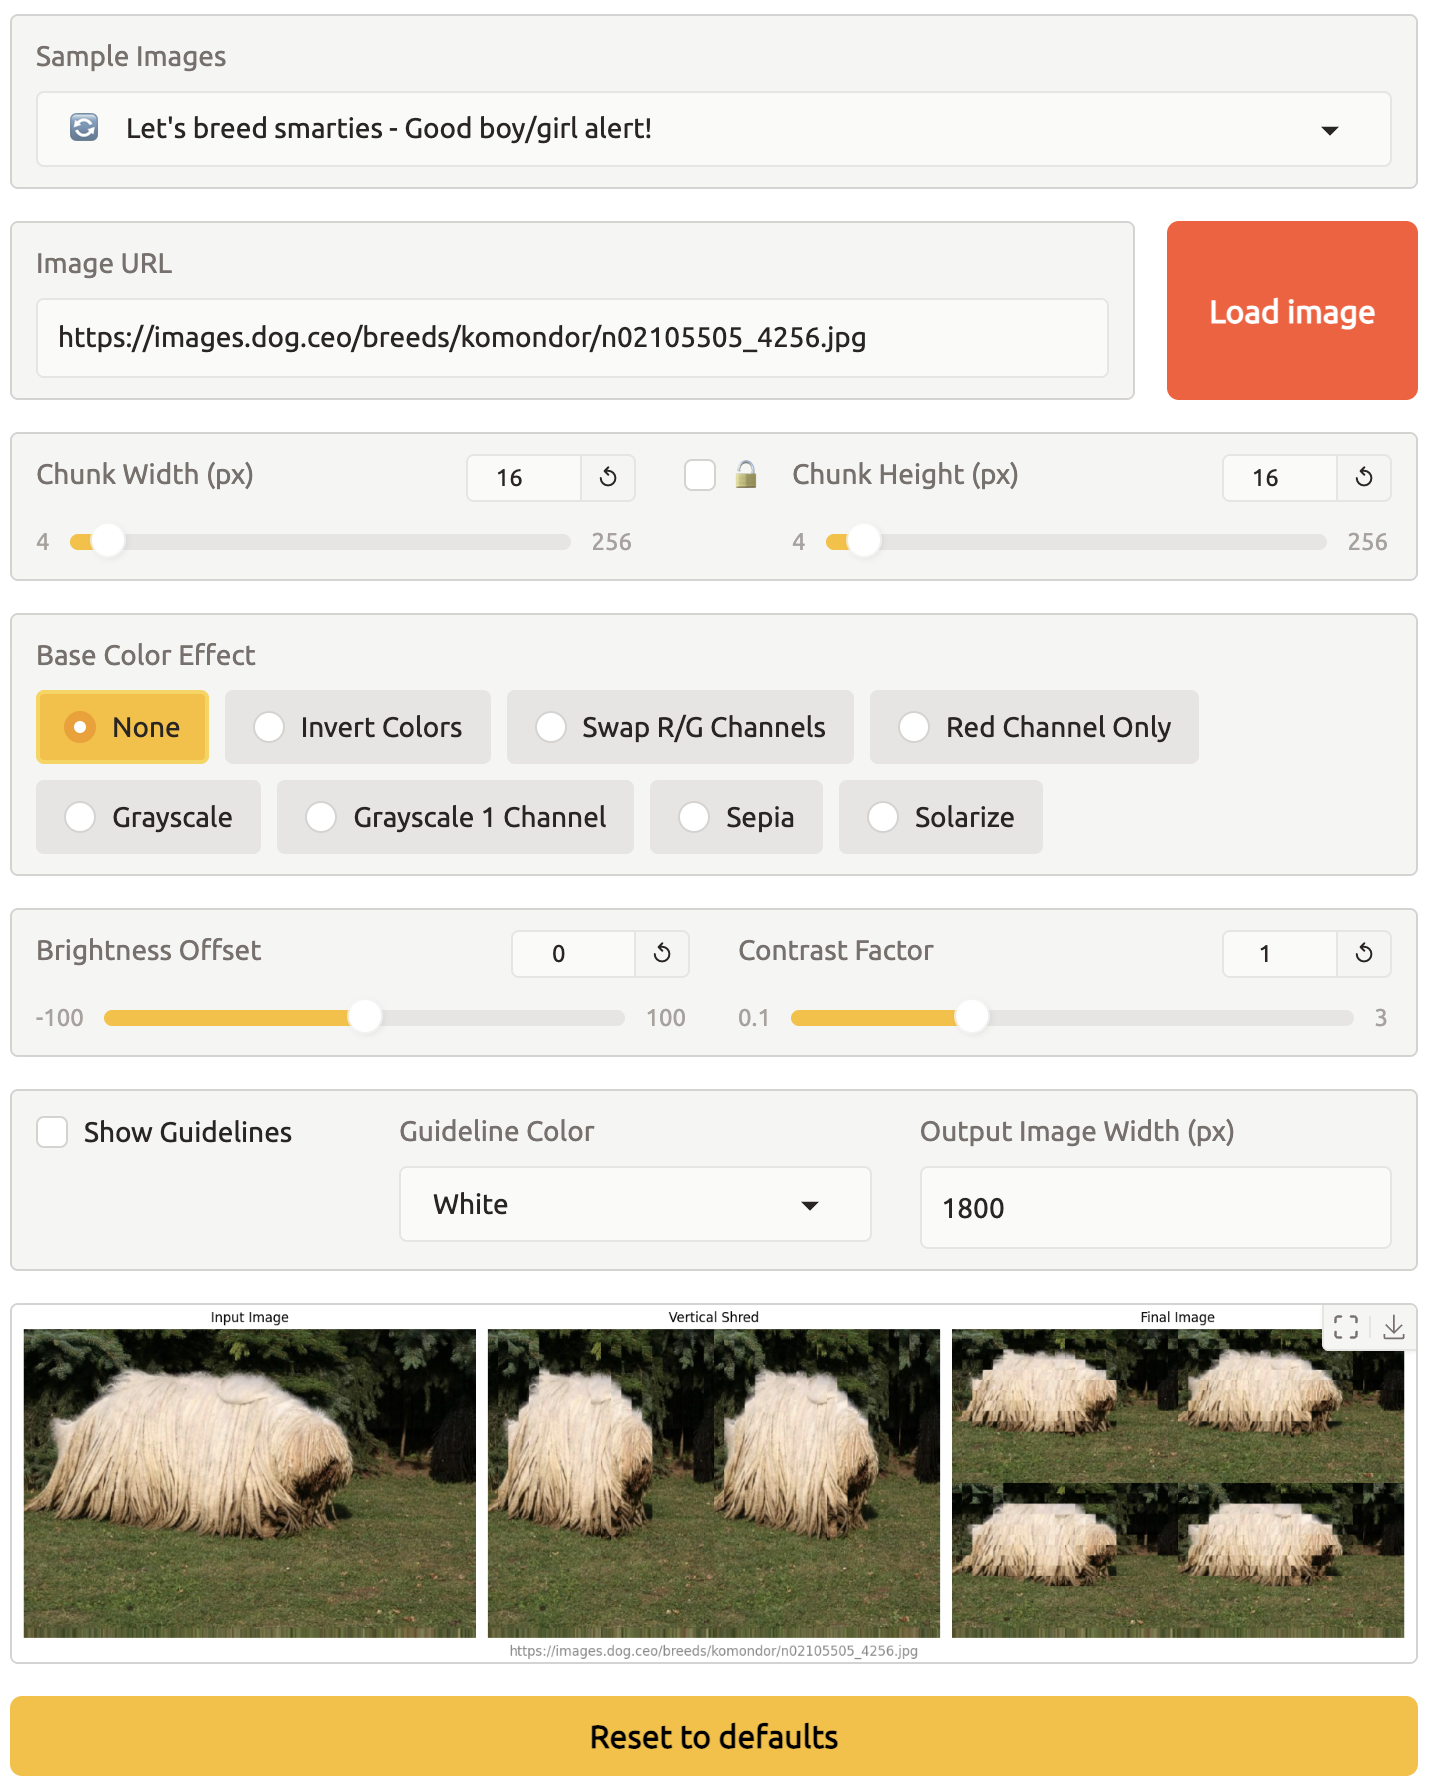
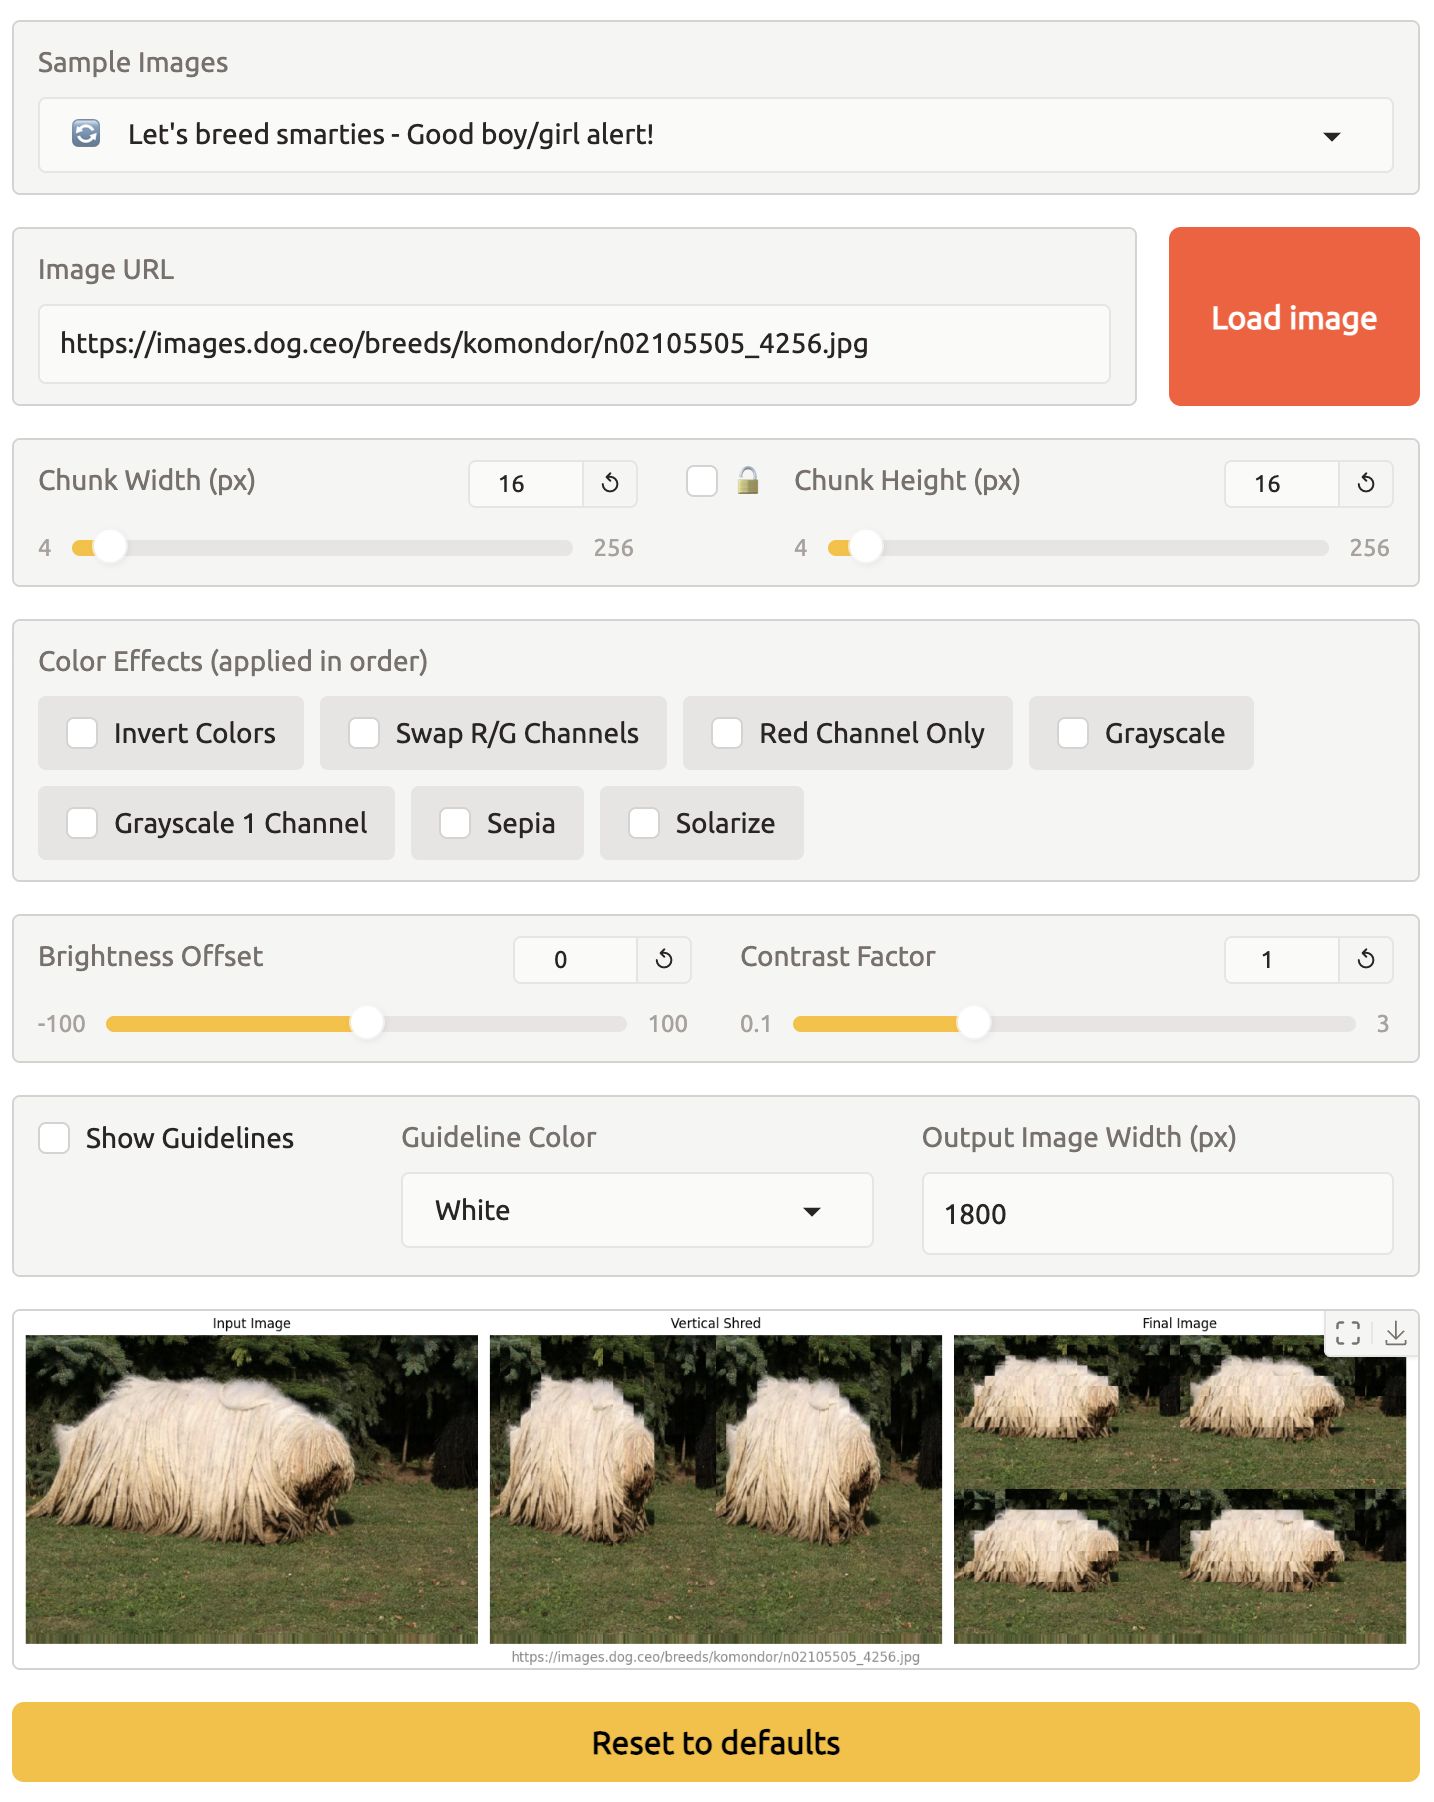
Updated docs for multiple fx and GUI screenshot

diff --git a/README.md b/README.md
@@ -22,7 +22,7 @@ Optionally added some extra features, numpy processing for color channels.
     1.  **Vertical Shredding**: Image is sliced into vertical strips, which are then reordered (even-indexed strips followed by odd-indexed strips).
     2.  **Horizontal Shredding**: The result of vertical shredding is then sliced into horizontal strips, which are similarly reordered.
 
-*   **Color Effects**: A Numpy playground as a selection of color transformations applied to the image using NumPy array operations:
+*   **Color Effects**: A Numpy playground as a selection of color transformations applied to the image using NumPy array operations (can be appliet simultaneously and in a specific order):
     *   Invert Colors
     *   Swap R/G Channels
     *   Red Channel Only
@@ -88,7 +88,7 @@ img_array = np.array([
     *   **Vertical Shredding**: The padded image is sliced into vertical chunks. These chunks are then reassembled by first taking all even-indexed chunks and then all odd-indexed chunks, stacking them horizontally.
     *   **Horizontal Shredding**: The vertically shredded image is then sliced into horizontal chunks. These are reassembled similarly (even-indexed followed by odd-indexed), stacking them vertically to produce the final image.
 
-4.  **Color Effects Application (`utils.py -> apply_color_effect`)**: If a color effect other than "None" is selected, it's applied to the padded image array using NumPy. The image array is first converted to `np.float32` for calculations to prevent data loss or overflow, and then clipped back to the 0-255 range and converted to `np.uint8`. Though using [Pillow](https://pillow.readthedocs.io/en/stable/) to transform images (f.e grayscale, posterize, solarize etc.) would be more efficient, but this project's target is [NumPy](https://numpy.org/doc/stable/). Effects and transformations descriptions:
+4.  **Color Effects Application (`utils.py -> apply_color_effect`)**: If any checkbox in color effects is selected, it's applied to the padded image array using NumPy. The order of selection is important and `solarize -> invert` is not equal to `invert -> solarize`. The image array is first converted to `np.float32` for calculations to prevent data loss or overflow, and then clipped back to the 0-255 range and converted to `np.uint8`. Though using [Pillow](https://pillow.readthedocs.io/en/stable/) to transform images (f.e grayscale, posterize, solarize etc.) would be more efficient, but this project's target is [NumPy](https://numpy.org/doc/stable/). Effects and transformations descriptions:
     *   **Invert Colors**: `255 - img_array`. NumPy performs element-wise subtraction of each pixel value from scalar 255, broadcasting to match `img` array shape. Another way is to use `~img` or `numpy.invert(img)` bitwise NOT, which would work on `uint8`, though it is less intuitively readable. Applying this to `img_copy` (which is `float32`) would be maybe slightly less performant but still correct, though `numpy.invert(img_copy)`- not.
 
     *   **Swap R/G Channels**: `swapped_img[..., 0], swapped_img[..., 1] = swapped_img[..., 1].copy(), swapped_img[..., 0].copy()`. NumPy's array slicing is used to select the <span style="color:red">Red</span> and <span style="color:green">Green</span> channels (0 and 1 respectively, on the last axis) and swap their contents.
